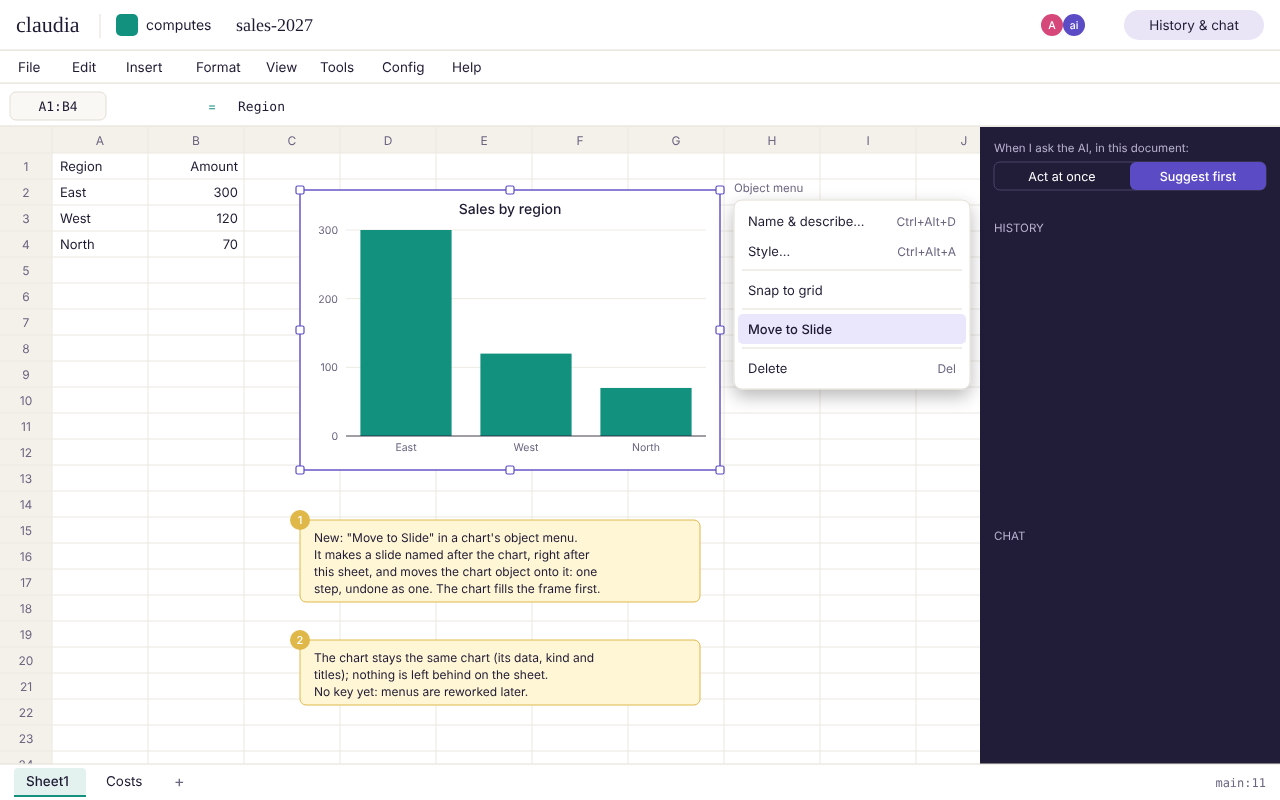
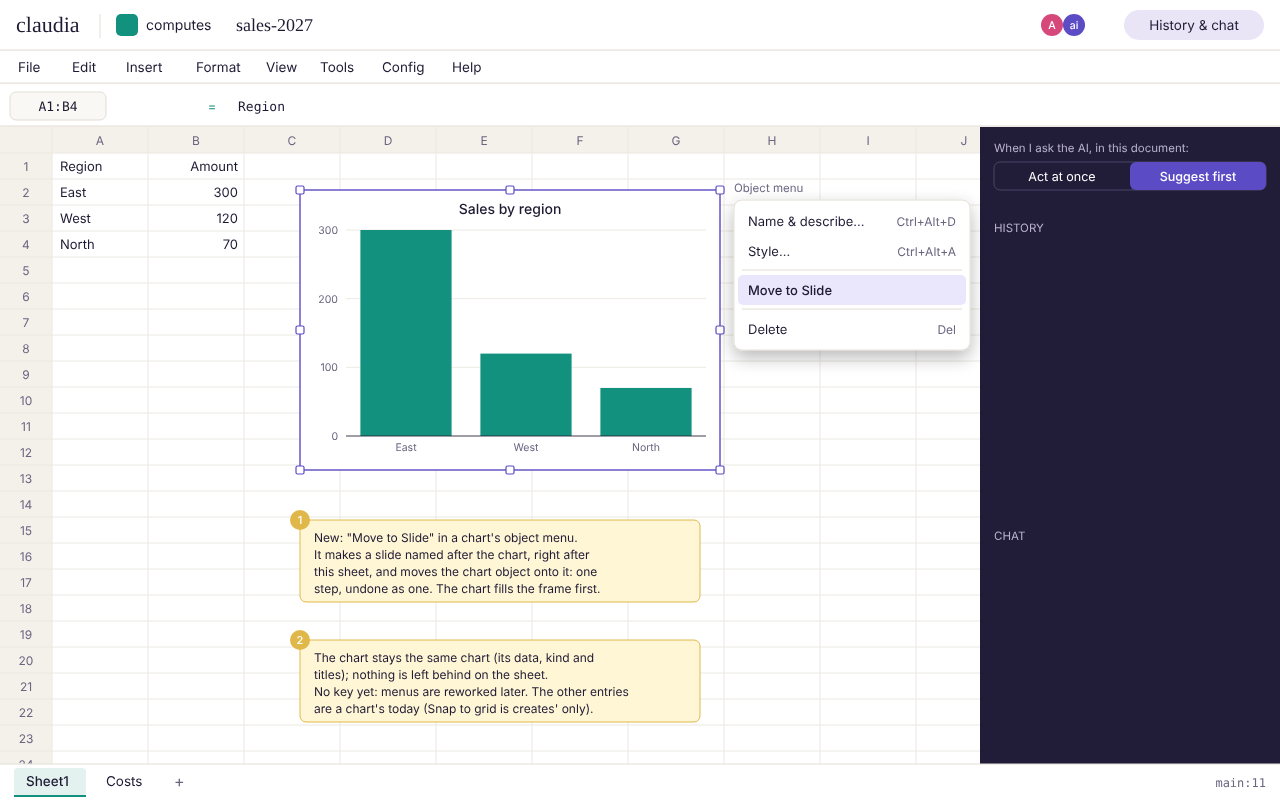
E6.31 mock 3: no "Snap to grid" on a sheet; the Penpot page named in the story
"Snap to grid" follows creates' layout grid only (object-menu.ts): a chart's
object menu on a sheet has Name & describe…, Style… and Delete, and now
Move to Slide.

Claude-Session: https://claude.ai/code/session_013Hm7H9EUxnjj22rkWXKyZm

Changed region(s): [[0.5625, 0.3438, 0.7812, 0.5], [0.2188, 0.8438, 0.5625, 0.9062]]

diff --git a/claudiaoffice-log/Projects/claudia-office/_tasks/e6.31-slides-in-computes.md b/claudiaoffice-log/Projects/claudia-office/_tasks/e6.31-slides-in-computes.md
@@ -27,6 +27,6 @@ As someone who builds charts in a workbook, I want a slide among my sheets that 
 
 **Steps** (agreed 2026-11-22), each ending green and usable: (1) the slide's type, frame and anchor move into the core and creates uses them, nothing visible changes; (2) computes has slides: in one tab order with the sheets, shapes, text boxes and images on a slide, export as an empty worksheet with the loss "slide", the chart tabs still beside them (no way yet for a person to make a slide); (3) the chart tab becomes a slide: Edit ▸ Chart… offers "A slide" instead of "A tab", "Move to Slide" for a chart on a sheet, one spec per chart object, and computes' `Chart`, `add_chart`, `remove_chart` and the tab list `charts` go in the same step; (4) the chart names of E1.18 (Q17 of the session), now that `charts` is free.
 
-**Notes:** Grilled with the owner on 2026-11-22 (questions Q1–Q18 of the session on chart and diagram): "diagram" is not a concept of claudia's own (a Mermaid diagram is a container); German says "Diagramm" for a chart. Mockups (2026-11-22): `notes/mockups/computes-slides-1-a-slide-among-the-sheets.svg`, `computes-slides-2-insert-chart-as-a-slide.svg`, `computes-slides-3-move-a-chart-to-a-slide.svg`. Architecture, specs, branch and decision range follow the project's process. Existing documents with chart tabs are not upgraded (pre-release, E1.16).
+**Notes:** Grilled with the owner on 2026-11-22 (questions Q1–Q18 of the session on chart and diagram): "diagram" is not a concept of claudia's own (a Mermaid diagram is a container); German says "Diagramm" for a chart. Mockups (2026-11-22): `notes/mockups/computes-slides-1-a-slide-among-the-sheets.svg`, `computes-slides-2-insert-chart-as-a-slide.svg`, `computes-slides-3-move-a-chart-to-a-slide.svg`; the same three screens in Penpot, page "E6.31 Slides in computes" of `penpot/claudia.penpot` on the branch `penpot`. Architecture, specs, branch and decision range follow the project's process. Existing documents with chart tabs are not upgraded (pre-release, E1.16).
 
 Parent: [[e6-claudia-computes|E6 claudia computes]]
